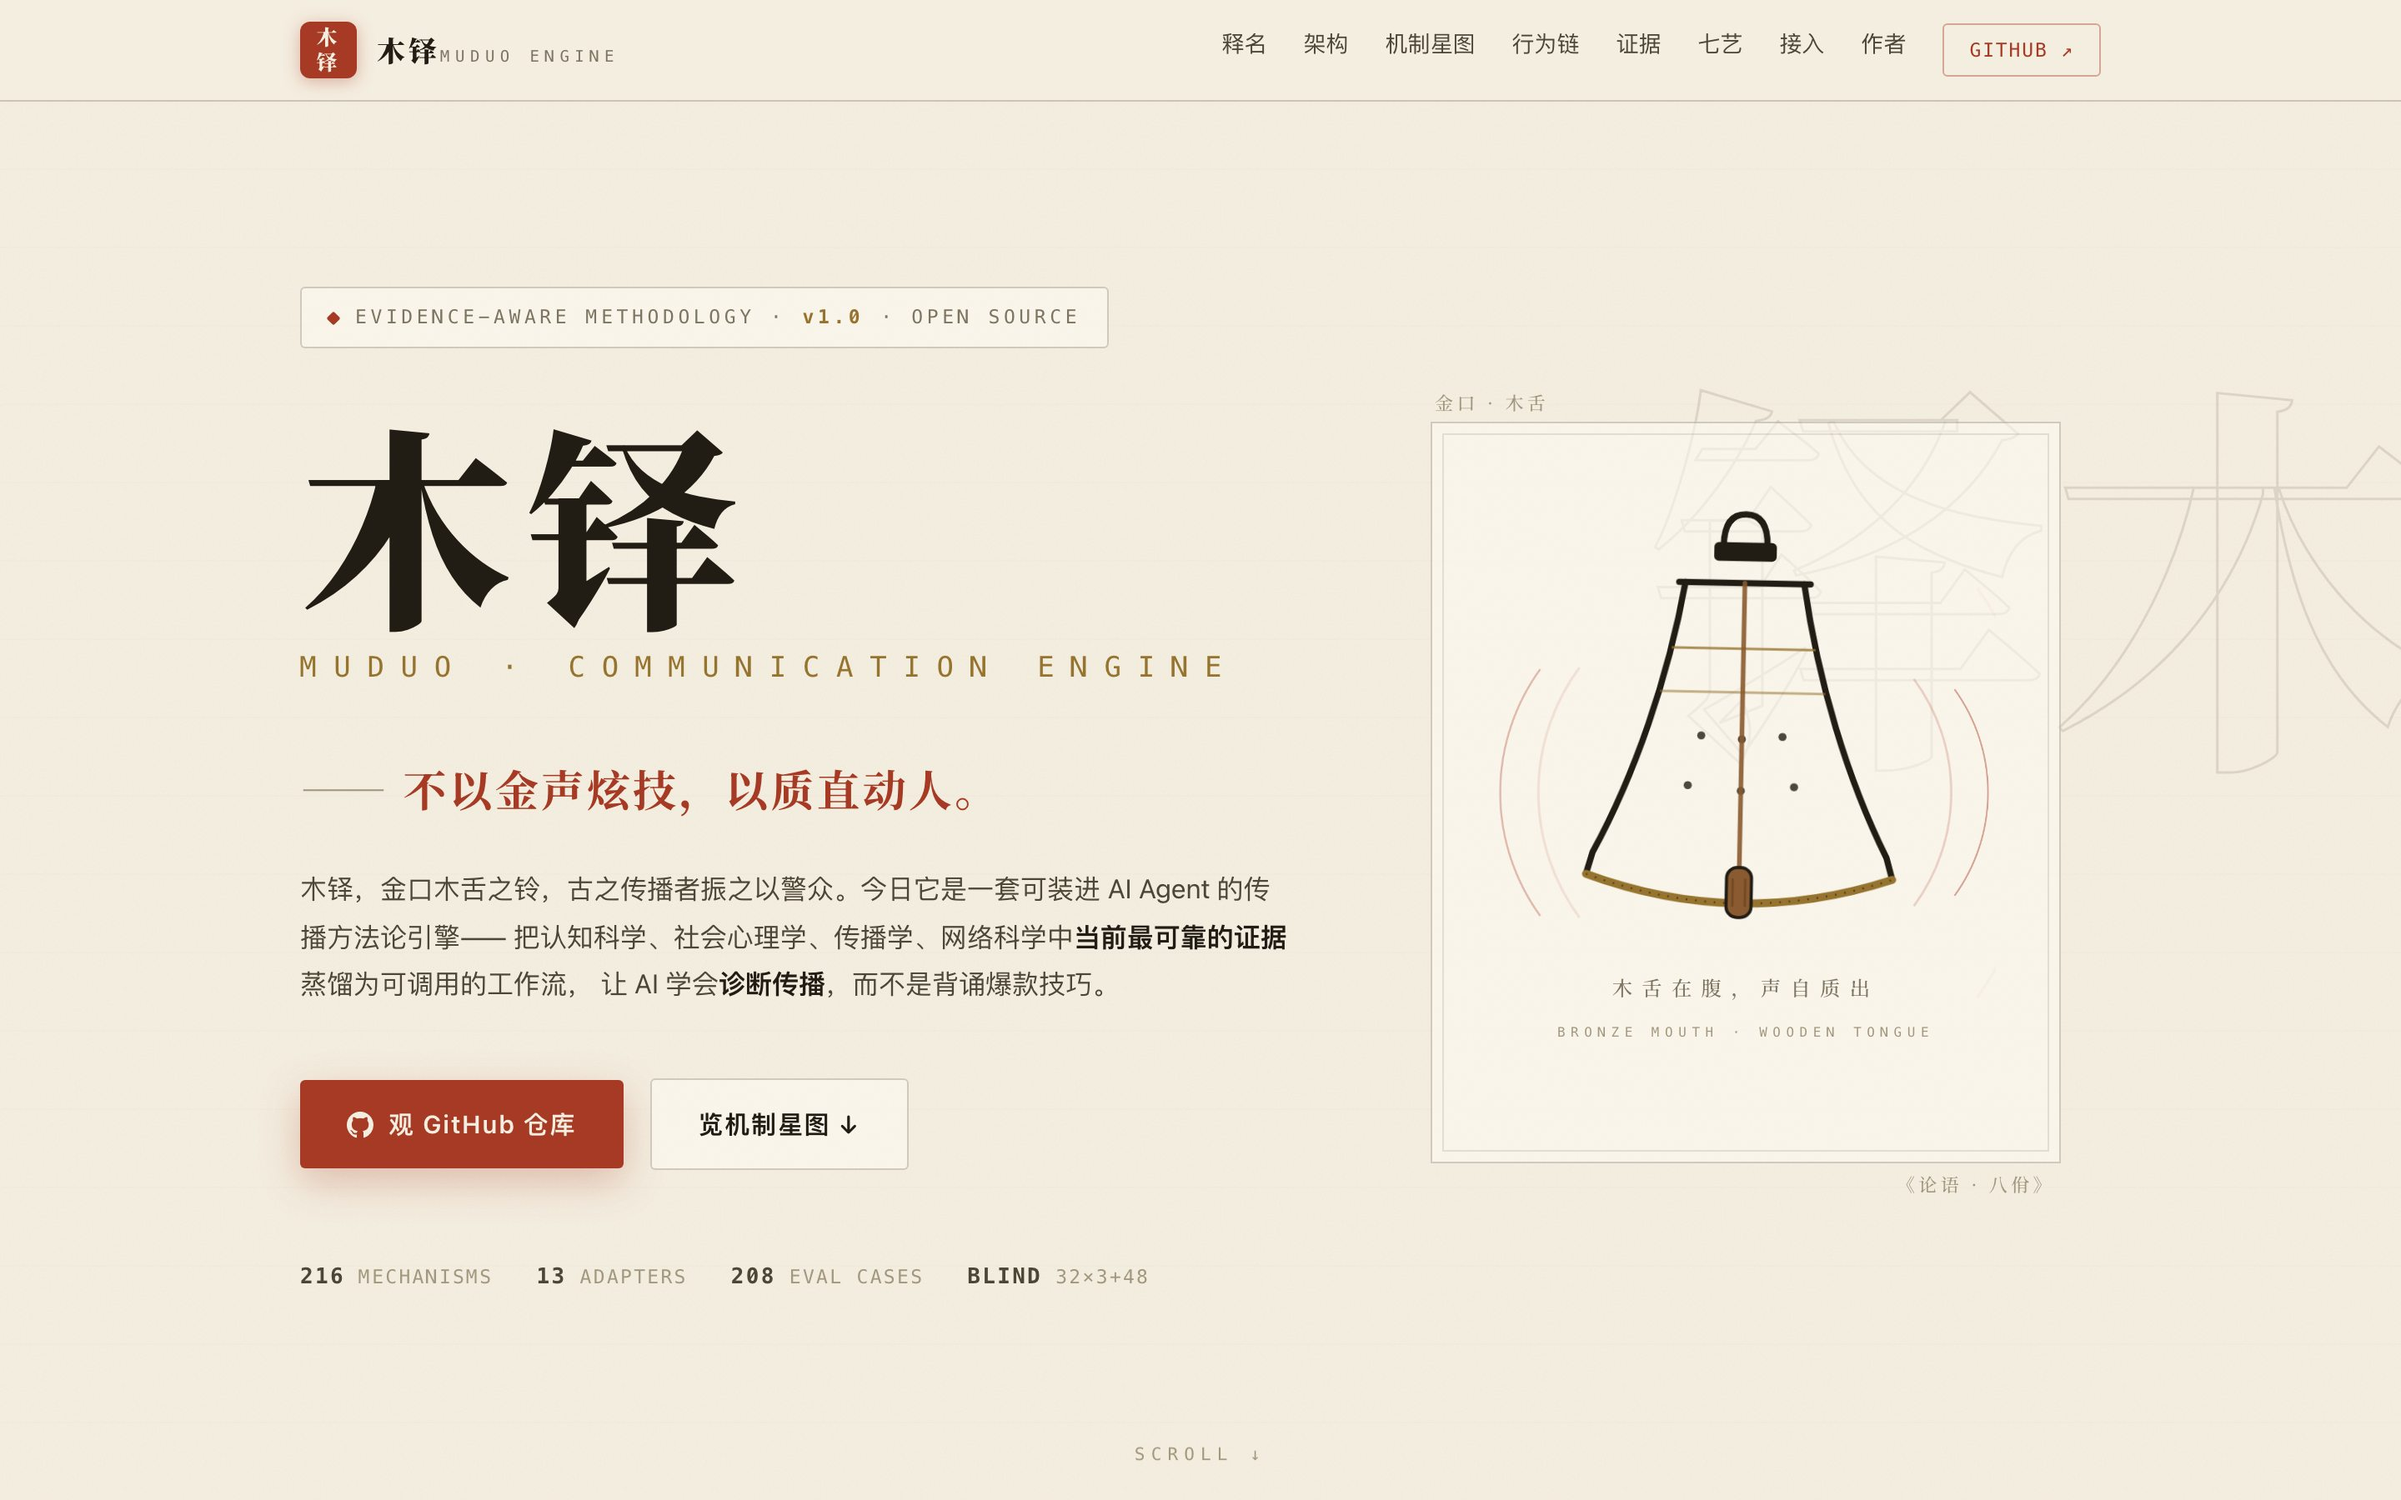
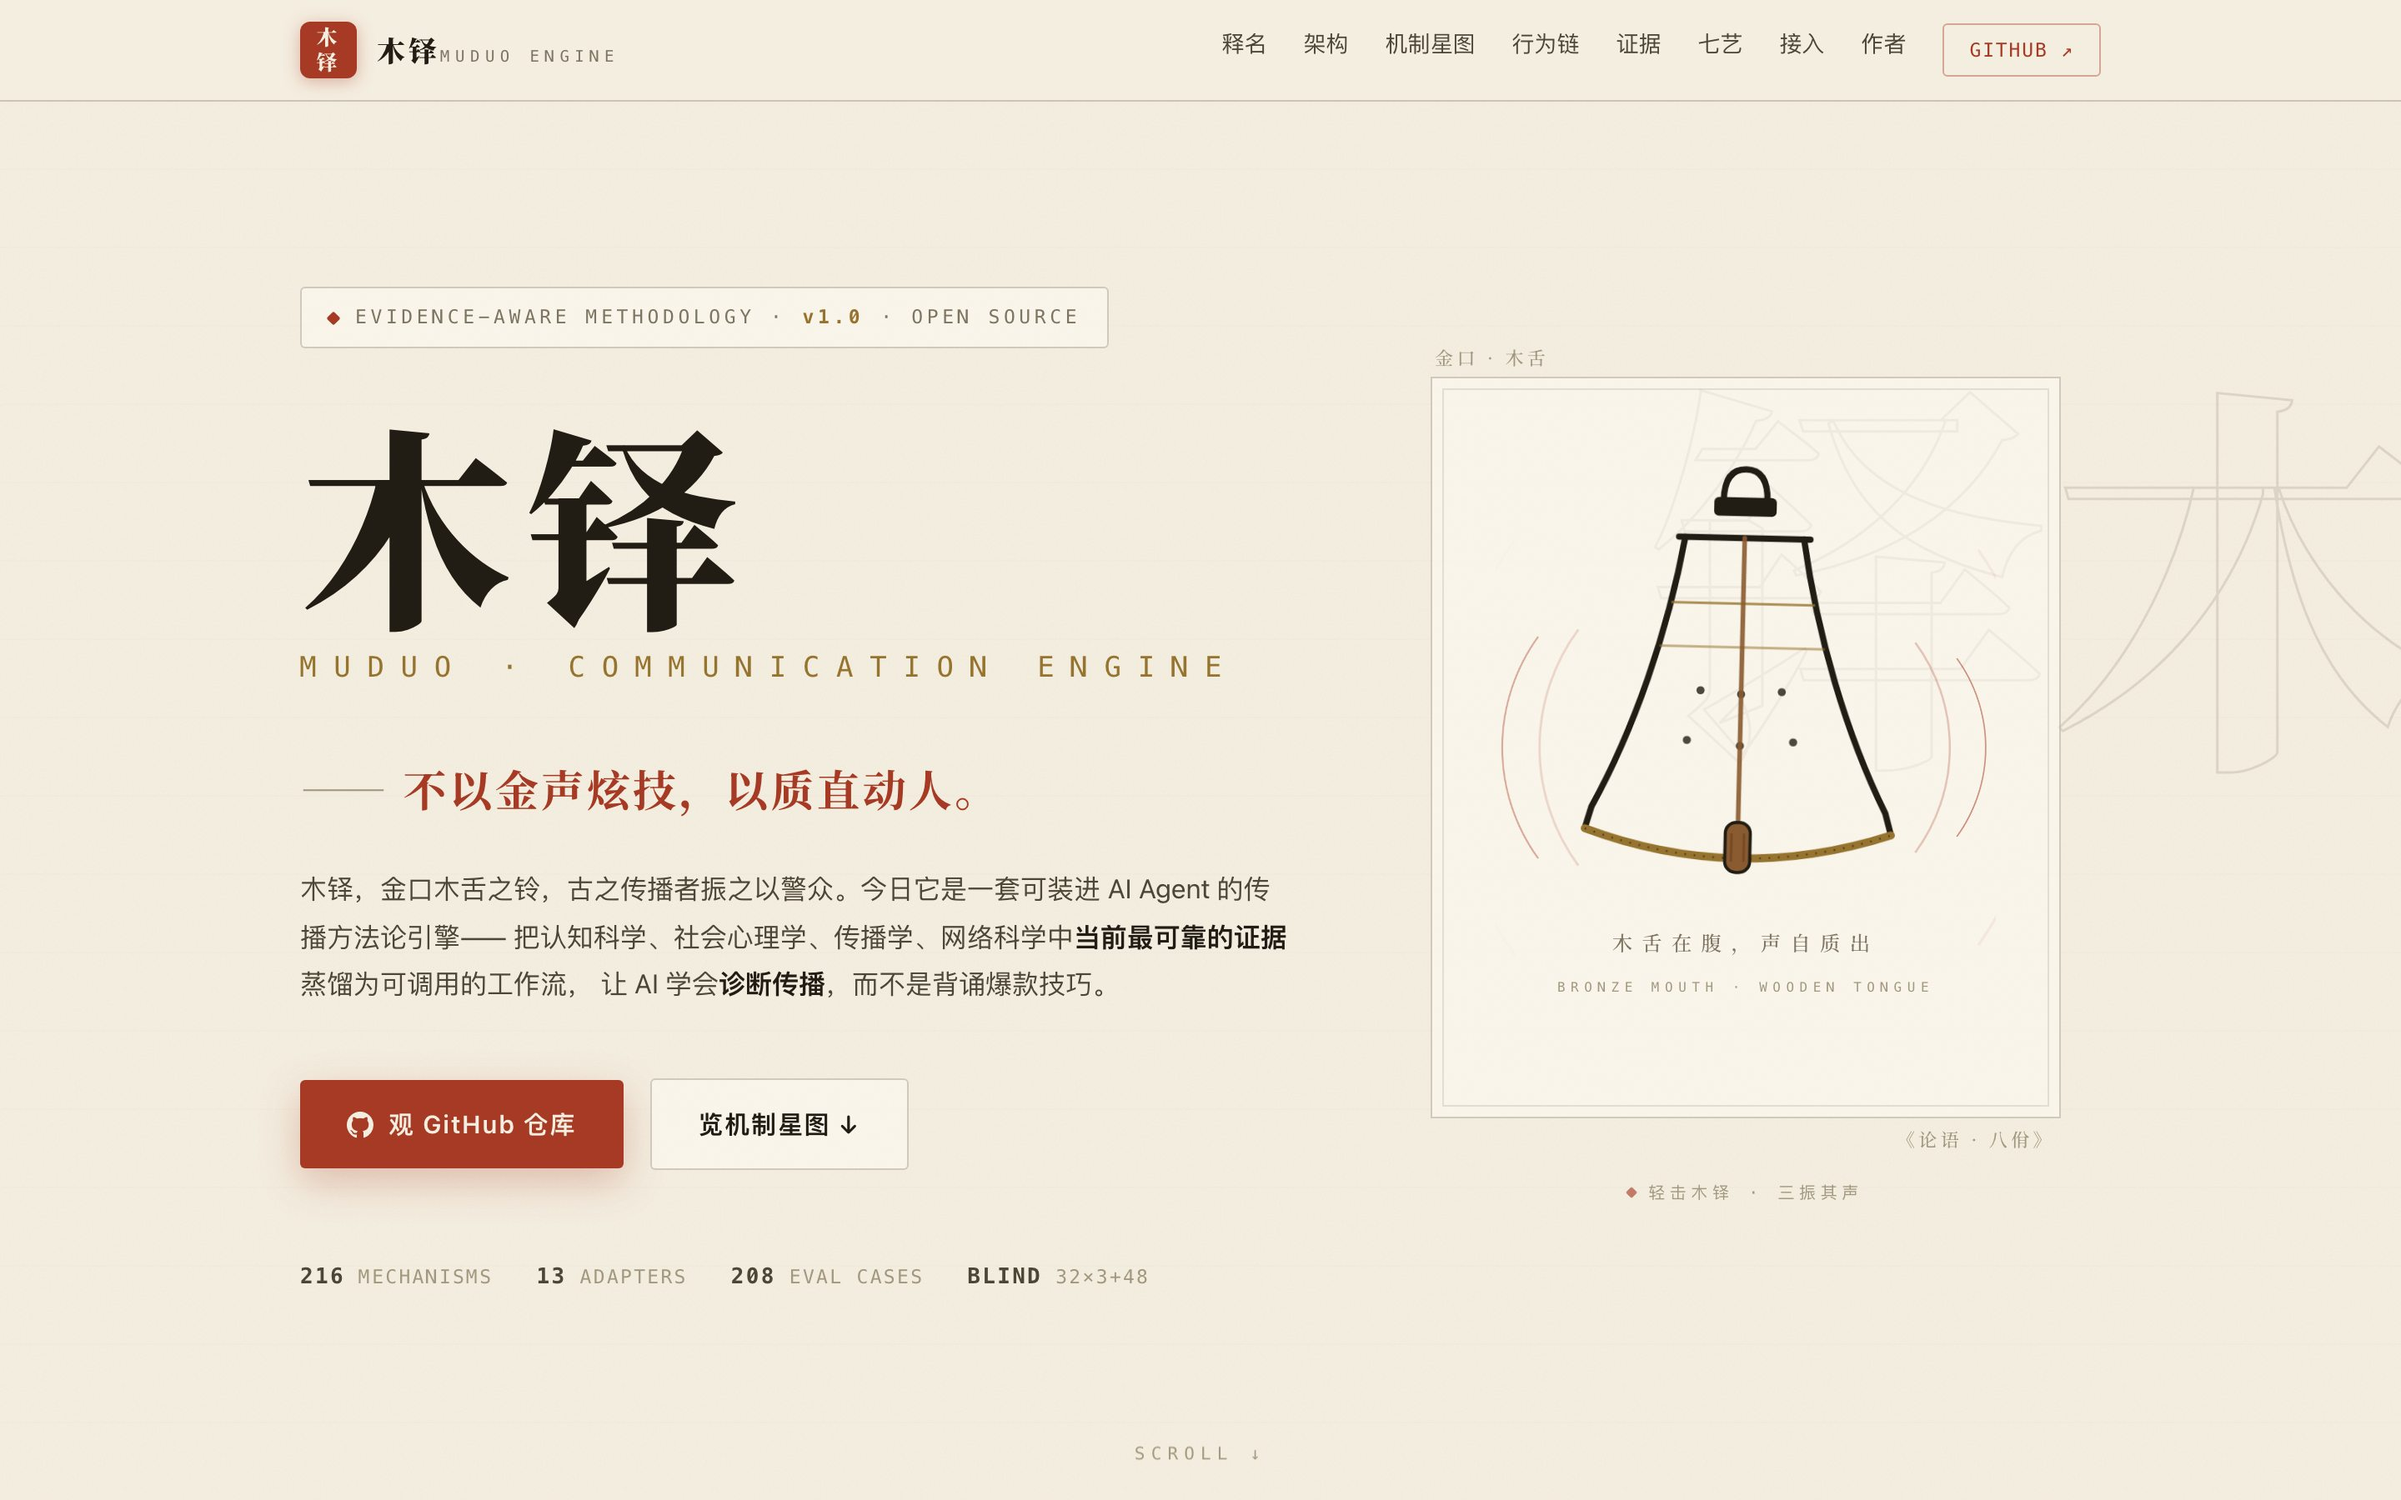
feat(官网)：点击木铎发声——WebAudio 合成「三振其声」+ hero/mobile 截图同步
依考古声学特征合成：合瓦形青铜腔正鼓/侧鼓双基音（小三度）+ 非谐和泛音列
+ 木舌「笃」瞬态 + 低腔共鸣，左中右三振对应「振铎以警众」；铎体摆动与声
波联动，支持键盘触发与 reduced-motion 降级。修复 bell-wrap flex 布局挤压
提示文字问题；README 首屏与移动端截图重截收录提示态。

diff --git a/site/index.html b/site/index.html
@@ -119,7 +119,7 @@ h1.brand{font-family:var(--serif);font-size:clamp(64px,10vw,128px);font-weight:9
 @keyframes hint{0%,100%{transform:translate(-50%,0);opacity:.5}50%{transform:translate(-50%,8px);opacity:1}}
 
 /* 木铎图 */
-.bell-wrap{display:flex;justify-content:center;position:relative}
+.bell-wrap{display:flex;flex-direction:column;align-items:center;justify-content:center;position:relative}
 .bell-frame{position:relative;padding:34px 38px;border:1px solid var(--line);background:var(--card)}
 .bell-frame::before{content:"";position:absolute;inset:6px;border:1px solid var(--line2);pointer-events:none}
 .bell-corner{position:absolute;font-family:var(--serif);font-size:11px;color:var(--ink4);letter-spacing:.2em}
@@ -131,9 +131,20 @@ h1.brand{font-family:var(--serif);font-size:clamp(64px,10vw,128px);font-weight:9
 @keyframes ripple{0%{opacity:.55;transform:scale(.62)}100%{opacity:0;transform:scale(1.28)}}
 .ripple{transform-box:fill-box;transform-origin:center;animation:ripple 3.2s ease-out infinite}
 .ripple.r2{animation-delay:1.05s}.ripple.r3{animation-delay:2.1s}
+/* 鸣铎交互 */
+.bell-frame{cursor:pointer;transition:border-color .3s}
+.bell-frame:hover{border-color:var(--jin)}
+.bell-frame:focus-visible{outline:2px solid var(--zhu);outline-offset:4px}
+.bell-hint{margin-top:36px;display:flex;align-items:center;justify-content:center;gap:8px;
+  font-family:var(--mono);font-size:10px;letter-spacing:.28em;color:var(--ink4)}
+.bell-hint .dian{width:5px;height:5px;background:var(--zhu);border-radius:1px;transform:rotate(45deg);animation:pulse 2.2s infinite}
+@keyframes pulse{0%,100%{opacity:.3}50%{opacity:1}}
+@keyframes ringbig{0%{transform:rotate(0)}18%{transform:rotate(4.6deg)}42%{transform:rotate(-3.8deg)}68%{transform:rotate(1.8deg)}100%{transform:rotate(0)}}
+.ringing #bellBody{animation:ringbig .8s cubic-bezier(.3,.6,.35,1) 3}
+.ringing .ripple{animation-duration:1.1s}
 @media(prefers-reduced-motion:reduce){
-  #bellBody,.ripple{animation:none}
-  .scroll-hint{animation:none}
+  #bellBody,.ripple,.ringing #bellBody,.ringing .ripple{animation:none}
+  .scroll-hint,.bell-hint .dian{animation:none}
 }
 
 /* ============ 数记 ============ */
@@ -476,7 +487,7 @@ footer{border-top:1px solid var(--line);padding:40px 0;font-size:12.5px;color:va
         </div>
       </div>
       <div class="bell-wrap">
-        <div class="bell-frame">
+        <div class="bell-frame" role="button" tabindex="0" aria-label="击木铎 · 三振其声" title="击木铎 · 三振其声">
           <span class="bell-corner tl">金口 · 木舌</span>
           <span class="bell-corner br">《论语 · 八佾》</span>
           <svg id="bellSvg" viewBox="0 0 320 400" fill="none" aria-label="木铎线图">
@@ -522,6 +533,7 @@ footer{border-top:1px solid var(--line);padding:40px 0;font-size:12.5px;color:va
             <text x="160" y="356" text-anchor="middle" font-family="var(--mono)" font-size="8.5" letter-spacing="3.5" fill="#a2977f">BRONZE MOUTH · WOODEN TONGUE</text>
           </svg>
         </div>
+        <div class="bell-hint"><span class="dian"></span>轻击木铎 · 三振其声</div>
       </div>
     </div>
   </div>
@@ -1133,6 +1145,55 @@ const barsEl=document.querySelector('.bars');if(barsEl)bio.observe(barsEl);
     function fallback(){const ta=document.createElement('textarea');ta.value=txt;
       document.body.appendChild(ta);ta.select();document.execCommand('copy');ta.remove();done();}
   }));
+})();
+
+/* ============ 9. 鸣铎 ============ */
+(function(){
+  const frame=document.querySelector('.bell-frame');if(!frame)return;
+  let AC=null,ringTimer=0;
+  function ac(){AC=AC||new (window.AudioContext||window.webkitAudioContext)();if(AC.state==='suspended')AC.resume();return AC;}
+  /* 木铎声学模型：合瓦形青铜腔 → 正鼓/侧鼓双基音（小三度）+ 非谐和泛音列（钟类特征）；
+     木舌击槌 → 软起振 + 木质「笃」瞬态（带通噪声 ~50ms）+ 低腔共鸣。
+     参印山越国大墓铎「摇动木舌仍可发出清脆悦耳之声」与编钟类合瓦形双音实测推演。 */
+  function strike(ac,t,f,vel,pan){
+    const out=ac.createGain();out.gain.value=.55;
+    if(ac.createStereoPanner){const p=ac.createStereoPanner();p.pan.value=pan;out.connect(p);p.connect(ac.destination);}
+    else out.connect(ac.destination);
+    const parts=[[1,1,2.8],[2.02,.5,2],[2.94,.26,1.4],[4.2,.13,.9],[5.6,.06,.55]];
+    [[f,1],[f*1.19,.5]].forEach(function(pair){
+      const ff=pair[0],m=pair[1];
+      parts.forEach(function(pt){
+        const o=ac.createOscillator();o.type='sine';o.frequency.value=ff*pt[0];
+        const gn=ac.createGain();
+        gn.gain.setValueAtTime(0,t);
+        gn.gain.linearRampToValueAtTime(vel*pt[1]*m,t+.004);
+        gn.gain.exponentialRampToValueAtTime(.0001,t+pt[2]);
+        o.connect(gn);gn.connect(out);o.start(t);o.stop(t+pt[2]+.1);
+      });
+    });
+    /* 木舌「笃」瞬态 */
+    const nb=ac.createBuffer(1,Math.floor(ac.sampleRate*.05),ac.sampleRate),ch=nb.getChannelData(0);
+    for(let i=0;i<ch.length;i++)ch[i]=(Math.random()*2-1)*(1-i/ch.length);
+    const ns=ac.createBufferSource();ns.buffer=nb;
+    const bp=ac.createBiquadFilter();bp.type='bandpass';bp.frequency.value=1350;bp.Q.value=1.1;
+    const ng=ac.createGain();ng.gain.setValueAtTime(vel*.4,t);ng.gain.exponentialRampToValueAtTime(.0001,t+.06);
+    ns.connect(bp);bp.connect(ng);ng.connect(out);ns.start(t);
+    /* 低腔共鸣 */
+    const o2=ac.createOscillator();o2.type='sine';o2.frequency.value=f/2;
+    const g2=ac.createGain();g2.gain.setValueAtTime(0,t);g2.gain.linearRampToValueAtTime(vel*.2,t+.01);g2.gain.exponentialRampToValueAtTime(.0001,t+.55);
+    o2.connect(g2);g2.connect(out);o2.start(t);o2.stop(t+.65);
+  }
+  function ring(){
+    const a=ac(),t=a.currentTime+.03,f=658;
+    strike(a,t,f,.5,-.4);
+    strike(a,t+.34,f*1.003,.38,.35);
+    strike(a,t+.76,f,.46,0);
+    frame.classList.remove('ringing');void frame.offsetWidth;
+    frame.classList.add('ringing');
+    clearTimeout(ringTimer);ringTimer=setTimeout(function(){frame.classList.remove('ringing');},2600);
+  }
+  frame.addEventListener('click',ring);
+  frame.addEventListener('keydown',function(e){if(e.key==='Enter'||e.key===' '){e.preventDefault();ring();}});
 })();
 </script>
 </body>
